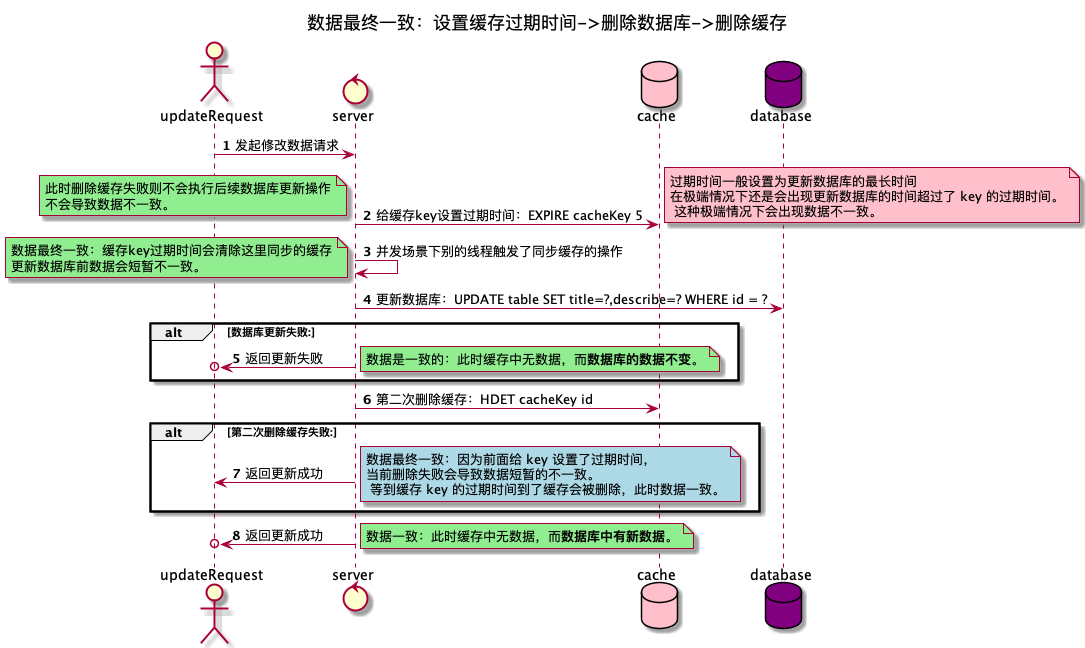
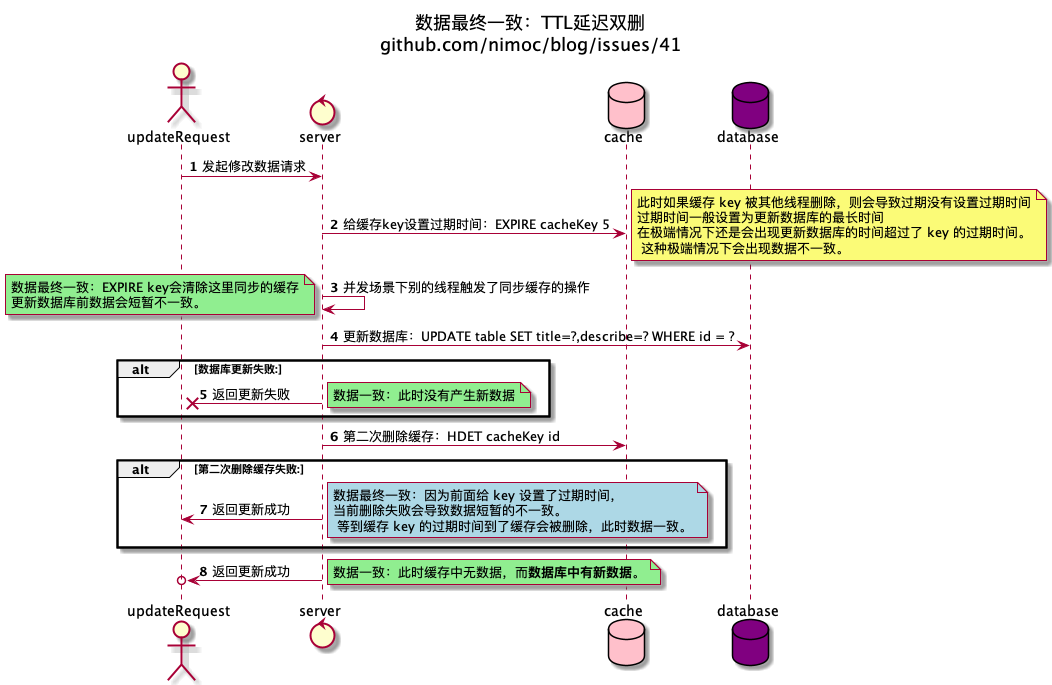
数据最终一致

diff --git a/src/_posts/cache_practice.md b/src/_posts/cache_practice.md
@@ -1,23 +1,17 @@
 ----
+
 title: 缓存实践
 date: 2021-02-27
 tags: 后端
 issues: 41
+
 ----
 
 # 缓存实践
 
 [![nimoc.io](http://nimoc.io/notice/index.svg)](https://nimoc.io/notice/)
 
-本文将完整介绍以下知识点：
-
-1. 读多写少
-2. 读多写多
-3. 缓存与数据库的一致性
-
-
-## 读多写少
-
+## Cache Aside（边路缓存）
 
 ### 不使用缓存
 
@@ -97,6 +91,7 @@ function QuestionByID(id) {
 
 
 > redis hash 的 feild 无法设置过期时间，可以通过定时任务使用 hscan 去检测 cache_expire_uinx_seconds 来实现 field 过期时间
+
 
 ### 缓存击穿
 
@@ -248,15 +243,17 @@ function QuestionByID(id string, retry int) {
 
 当数据量非常大时 hash 存储无效id会导致缓存数据过大，可以使用[布隆过滤器](https://www.dogedoge.com/results?q=%E5%B8%83%E9%9A%86%E8%BF%87%E6%BB%A4%E5%99%A8) 降低缓存大小。可以根据实际情况选择合适的方式。
 
-### 删除旧数据的缓存
+### 更新数据时同步缓存
 
-**带着以下思路去思考数据一致性和并发问题**
+更新数据时同步缓存,需要通过删除缓存从而让后续的用户请求触发同步缓存来实现。
+如果直接设置缓存的值`HSET cacheKey ....` 在并发情况下非常容易出现数据不一致的问题。
 
-1. **行间延迟**：每个操作之间都能出现非常大的延迟（需假设每行代码之间都有 sleep 操作）
-2. **原子性**：确认哪些操作不是原子性，考虑不是原子性会导致什么问题。
-3. **并发**：考虑会有其他线程/协程/机器同一时间对数据进行修改
+先列出记住容易出现数据不一致的情况
 
-![](./cache_practice/1-6.png)
+
+![](./cache_practice/1-6.png?=3)
+
+> 另外一种错误的想法是用 SQL事务，而事务并不能解决此问题，[时序图说明](./cache_practice/1-6-2.png)。
 
 ---
 
@@ -264,14 +261,45 @@ function QuestionByID(id string, retry int) {
 
 ---
 
-![](./cache_practice/1-8.png)
+![](./cache_practice/1-8.png?v=1)
+
+伪代码
+```js
+func UpdateQuestion(id, data) {
+  cacheKey = "question:" + id
+  RedisCommand("HDEL", cacheKey, id)
+  SqlUpdate("UPDATE question SET title = ?, describe = ? WHERE id = ?")
+  RedisCommand("HDEL", cacheKey)
+  // 消息队列要解耦，只发布提问数据被更新的消息，而不是发布删除缓存的命令。这样可以多个系统复用消息。
+  MessageQueuePublish("questionUpdated", id)
+}
+```
 
 ---
 
-![](./cache_practice/1-9.png)
+![](./cache_practice/1-9.png?v=2)
+
+伪代码
+```js
+func UpdateQuestion(id, data) {
+  cacheKey = "question:" + id
+  result = RedisCommand("EXPIRE", cacheKey, sec)
+  if result == 0 {
+    // 增加监控日志，当大量出现设置失败，则表明需要当前业务场景下不适合用 TTL 延迟双删
+    monitorLog("warn", "question update cache set ttl fail, key not exist" + cacheKey )
+  }
+  SqlUpdate("UPDATE question SET title = ?, describe = ? WHERE id = ?")
+
+  // 消息队列要解耦，只发布提问数据被更新的消息，而不是发布删除缓存的命令。这样可以多个系统复用消息。
+  MessageQueuePublish("questionUpdated", id)
+}
+```
 
 ---
 
-因为缓存存储系统和持久化数据存储系统都是不同的服务提供的（mysql redis）所以无法保证原子性，无法保证原子性就无法保证数据一致。只能通过各种补偿机制保证数据最终一致性，在极端情况下依然无法保证数据一致性。但好在很多场景并不需要实现绝对的数据一致性，允许极端情况下出现短暂的数据不一致。
+因为缓存存储系统和持久化数据存储系统都是不同的服务提供的（mysql redis）所以无法保证原子性，无法保证原子性就无法保证数据一致。只能通过各种补偿机制保证数据最终一致性，在极端情况下依然无法保证数据一致性。但好在很多场景并不需要实现绝对的数据一致性，允许极端情况下出现短暂的数据不一致。比如在同步缓存的时候设置缓存10分钟，这样在极端情况下，也只会出现10分钟的缓存不一致。
+
+消息队列延迟双删会增加系统复杂度，TTL 相对而言简单很多。**高并发和数据强一致性是鱼与熊掌不可兼得**，需掌握发现问题和解决的方法根据自己的业务场景做出选择和调整。
+
 
 原文地址 https://github.com/nimoc/blog/issues/41 (原文持续更新)
